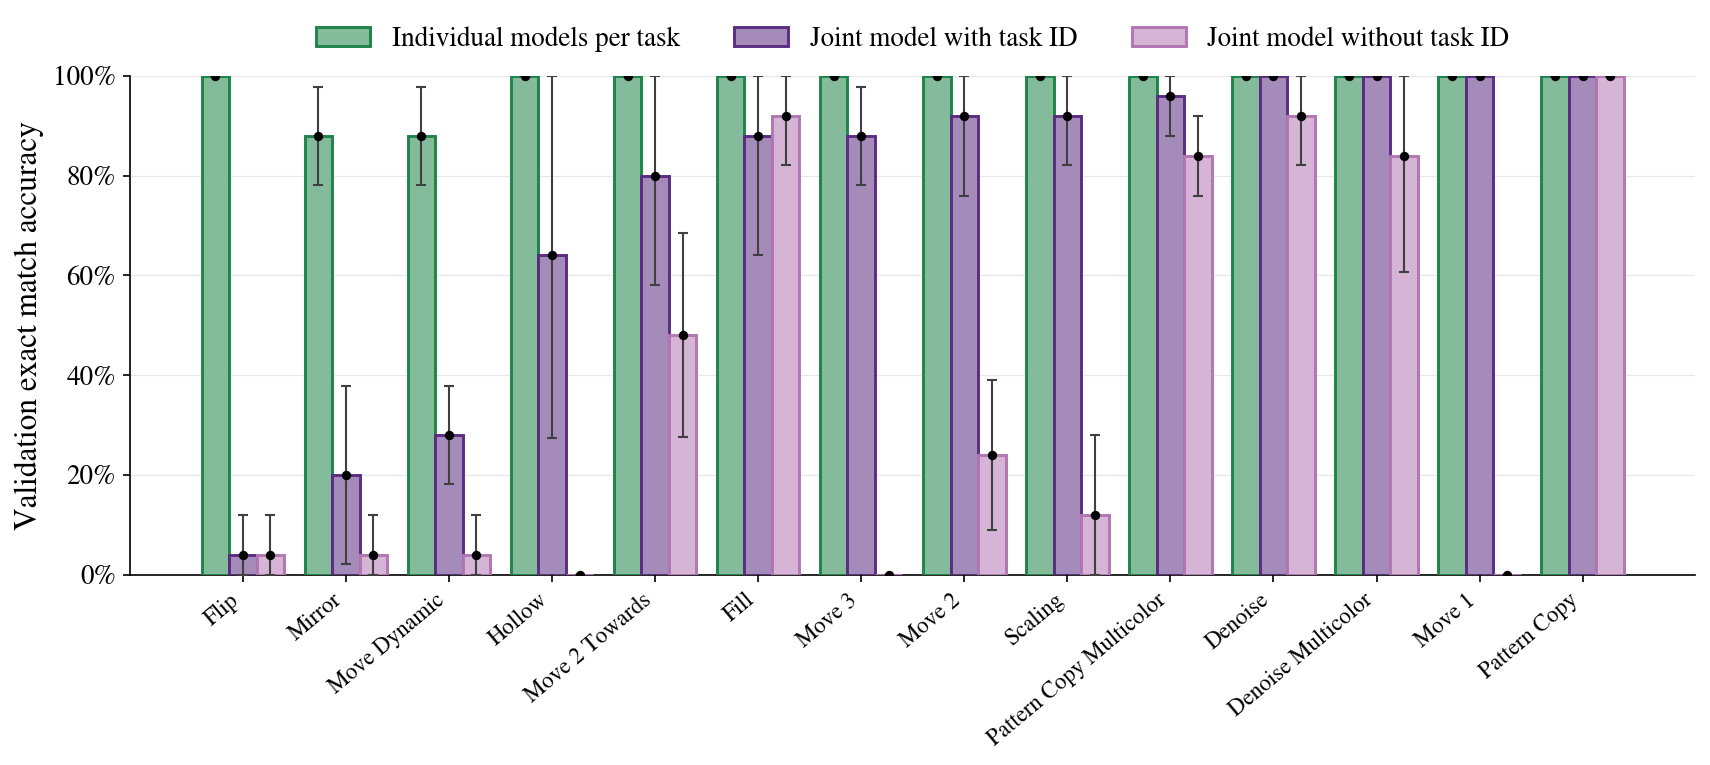
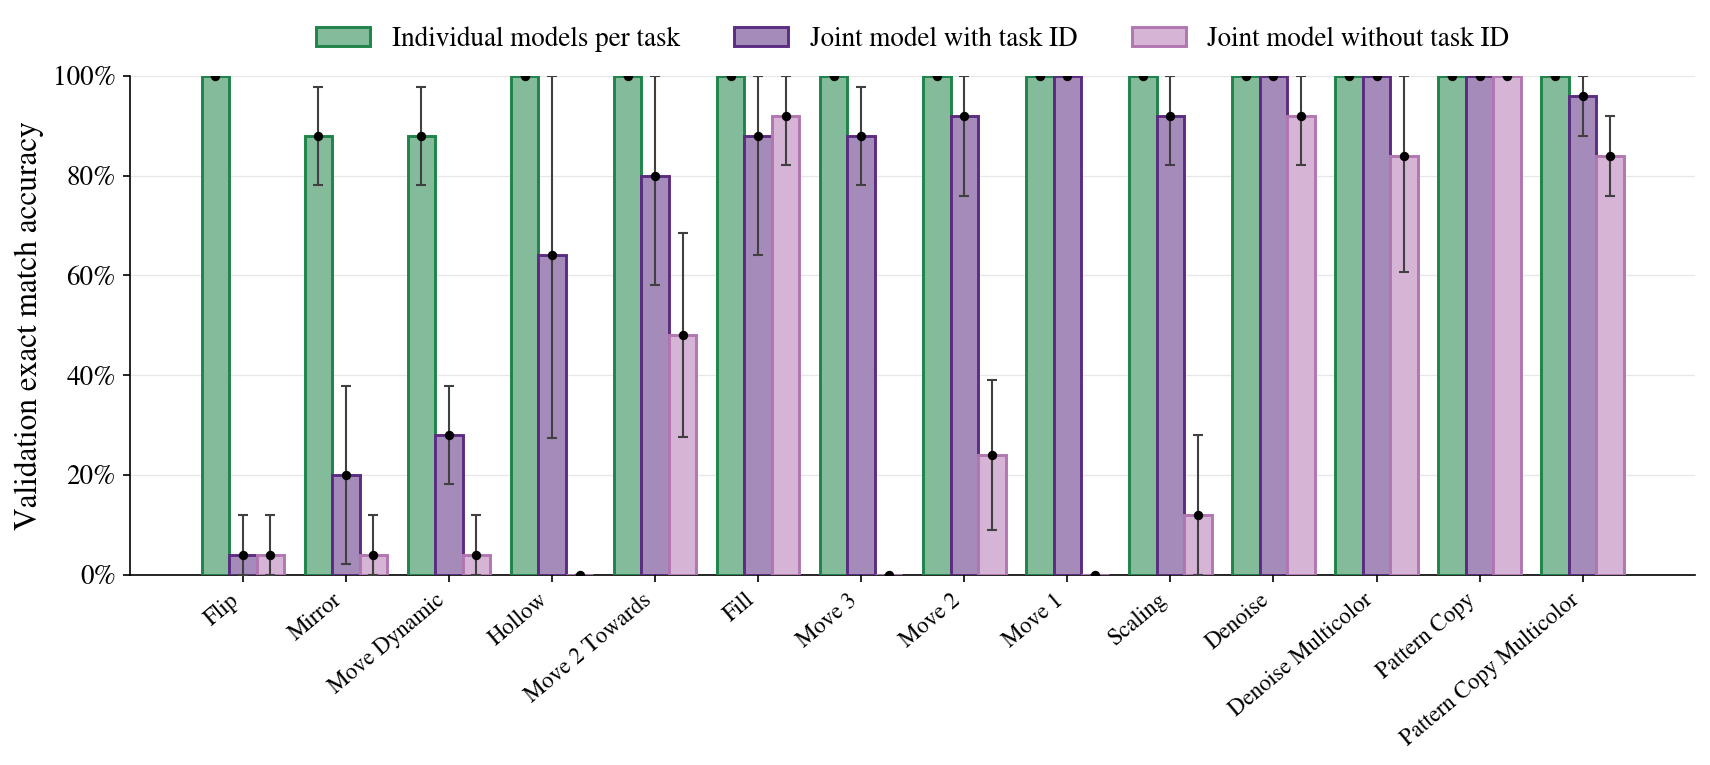
Per-task plot: group related tasks (Move 1 next to Move 2, Copy MC next to Copy)
apply_order_overrides() nudges the increasing-by-td sort so related tasks
sit adjacent even when their scores don't happen to land next to each
other. Generalizes across --dim since it's anchor-relative, not value-based.

diff --git a/configs/experiments/arc1d_v2_multitask/plot_per_task.py b/configs/experiments/arc1d_v2_multitask/plot_per_task.py
@@ -55,6 +55,24 @@ LABELS = {
 }
 CSV_FIELDS = ["condition", "dim", "task", "seed", "val_exact_match"]
 
+# Manual nudges on top of the increasing-by-td sort: keep related tasks
+# together even when their scores don't happen to land next to each other.
+# Each entry moves `task` to sit immediately after `anchor`.
+ORDER_OVERRIDES = [
+    ("1d_move_1p", "1d_move_2p"),  # Move 1 -> next to Move 2 (moves together)
+    ("1d_pcopy_mc", "1d_pcopy_1c"),  # Pattern Copy Multicolor -> next to Pattern Copy
+]
+
+
+def apply_order_overrides(tasks: list[str], overrides: list[tuple[str, str]]) -> list[str]:
+    tasks = list(tasks)
+    for task, anchor in overrides:
+        if task not in tasks or anchor not in tasks:
+            continue
+        tasks.remove(task)
+        tasks.insert(tasks.index(anchor) + 1, task)
+    return tasks
+
 
 def lighten(hex_color: str, amount: float = 0.45) -> str:
     """Blend a hex color toward white -- used for bar fills, with the
@@ -203,6 +221,7 @@ def plot(series: dict[str, dict[str, dict]], dim: str, out_path: Path) -> None:
     # Increasing order on "Joint model with task ID" -- surfaces the
     # failures on the left, the point of this chart.
     tasks = sorted(series["td"], key=lambda t: series["td"][t]["mean"])
+    tasks = apply_order_overrides(tasks, ORDER_OVERRIDES)
 
     n_tasks = len(tasks)
     conditions = ("individual", "td", "notd")
